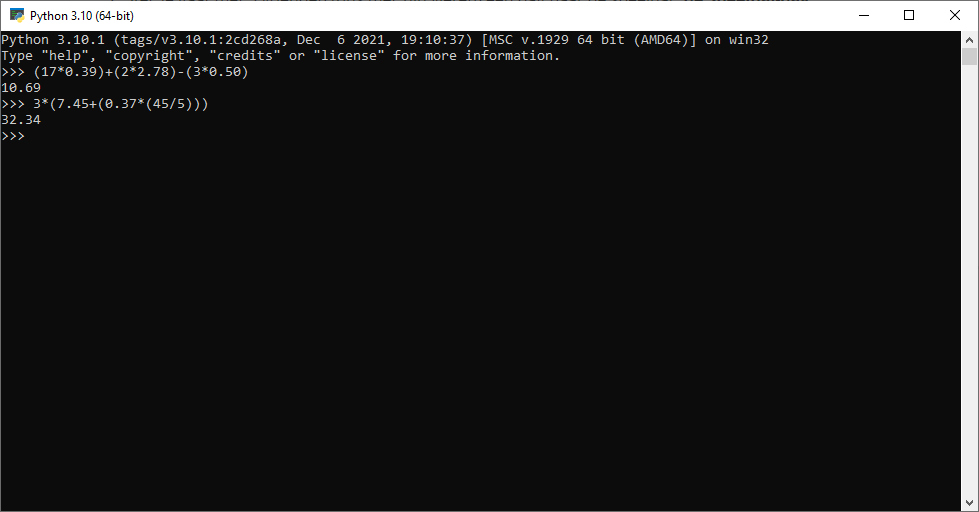
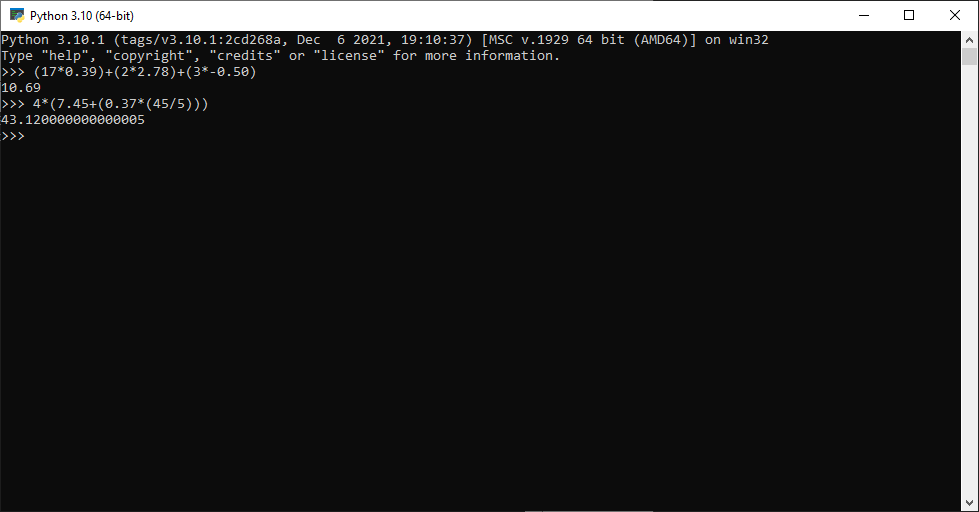
F1.2.02.L2

diff --git a/feestlunch.py b/feestlunch.py
@@ -1,0 +1,9 @@
+CroissantPrijs = 0.39
+StokbroodPrijs = 2.78
+KortingBon = -0.5
+Totaal = 0.0
+AantalCroissant = 17
+AantalStokbrood = 2
+AantalKortingBon = 3
+
+print((AantalCroissant * CroissantPrijs) + (AantalStokbrood * StokbroodPrijs) + (AantalKortingBon * KortingBon))

diff --git a/speelhaldag.py b/speelhaldag.py
@@ -1,0 +1,8 @@
+Personen = 4.0
+ToegangsTicketPrijs = 7.45
+GameSeatPrijs = 0.37
+GameSeatMinutenPerPrijs = 5.0
+MinutenInGameSeat = 45.0
+
+print(Personen*(ToegangsTicketPrijs+(GameSeatPrijs*(MinutenInGameSeat/GameSeatMinutenPerPrijs))))
+
